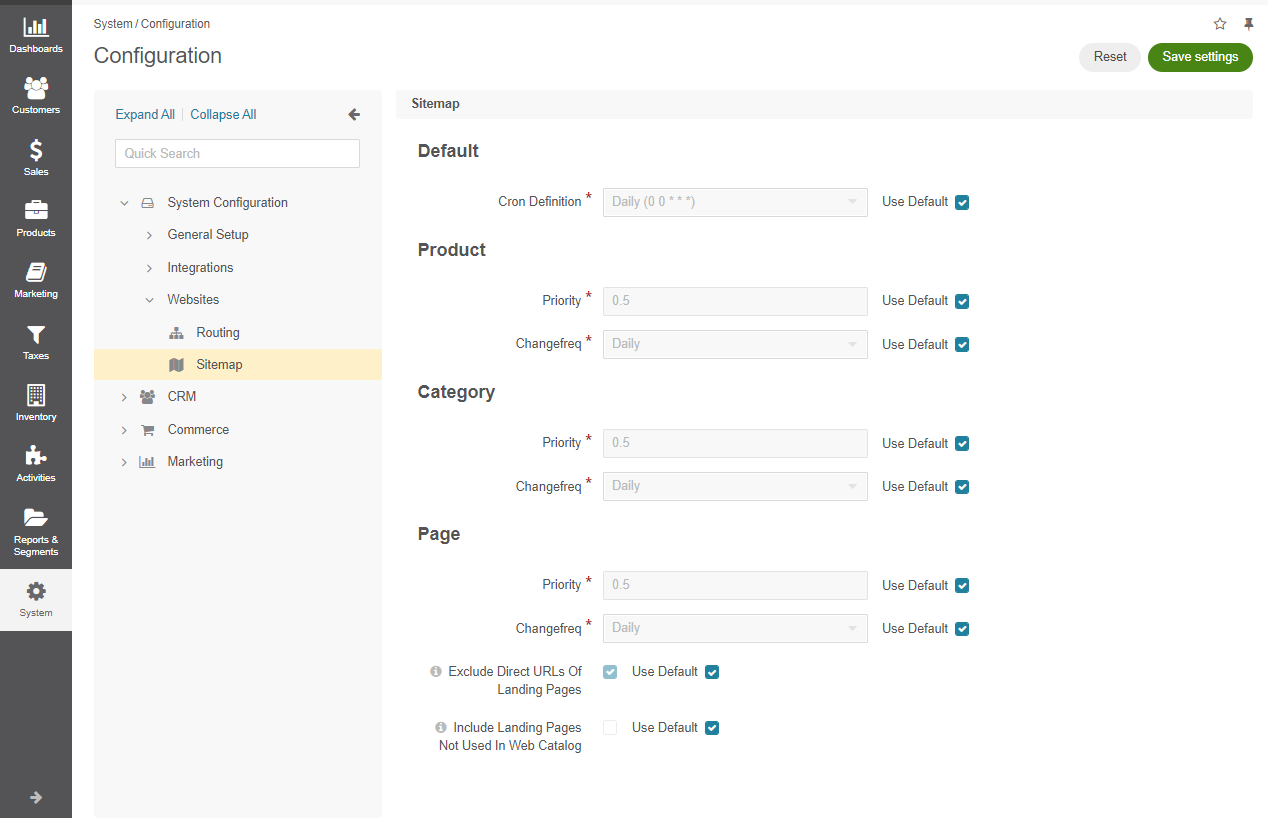
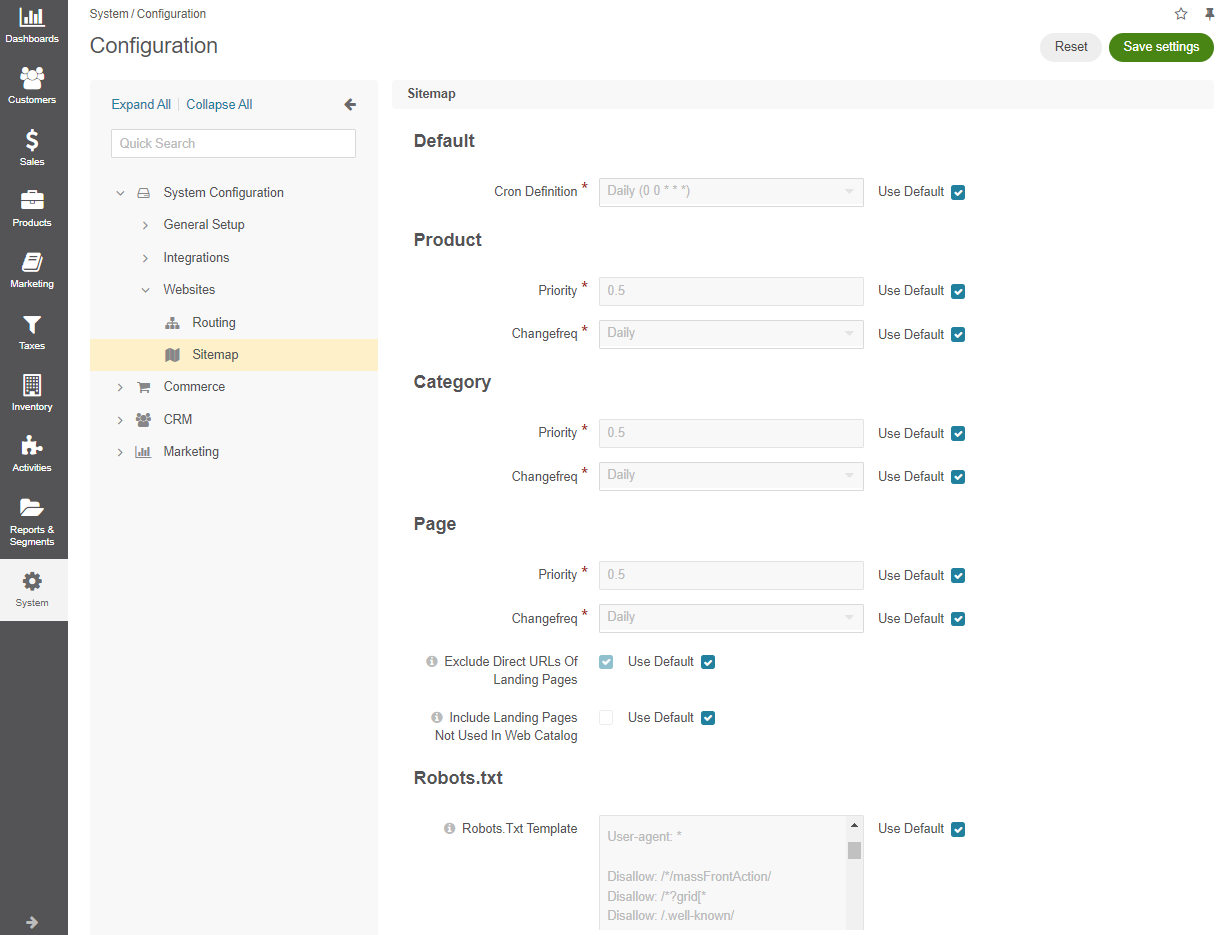
BB-22555: Robots.txt Configuration (#38851)
* BB-23715: Update robots.txt.dist files with default content (#37746)

* BB-23713: Add system configuration option
- added system configuration "Robots.txt Template";
- added RobotsTxtTemplateManager to simplify work with robots.txt.dist template;
- added RobotsTxtTemplateSystemConfigFormOptionsListener to set default value for configuration option "oro_seo.sitemap_robots_txt_template";
- added ScheduleSitemapGenerationOnRobotsTxtTemplateChangeListener to schedules generation of sitemap files if Robots.txt Template configuration option value was changed;
- used RobotsTxtTemplateManager in CopyRobotsTxtTemplateListener

* BB-23713: Add system configuration option

* BB-23714: Use the robots.txt template from system config
- renamed RobotsTxtTemplateManager to RobotsTxtDistTemplateManager;
- added RobotsTxtTemplateManager to provide robots.txt template from oro_seo.sitemap_robots_txt_template system configuration option of from RobotsTxtDistTemplateManager;
- used RobotsTxtDistTemplateManager in the RobotsTxtTemplateSystemConfigFormOptionsListener

* BB-23715: Update robots.txt.dist files with default content

* DOC-2184: Document the Robots.txt config option

* BB-23844: Behat tests (#37779)

- added openTheRobotsTxtUrl step for SEOBundle behat context
- added ability to assert multiline text on page
- added behat tests
- updated CHANGELOG.md
- added gridfs-skip behat tag
- moved gridfs-skip tagged behats to weekly

diff --git a/user/back-office/system/user-management/organizations/org-configuration/general-setup-org/organization-sitemap.rst b/user/back-office/system/user-management/organizations/org-configuration/general-setup-org/organization-sitemap.rst
@@ -1,0 +1,23 @@
+.. _organization-config-website-sitemap:
+
+Configure Website Sitemap Settings per Organization
+===================================================
+
+You can control the way sitemap is generated for specific organization in OroCommerce:
+
+1. Navigate to **System > Configuration > User Management > Organizations** in the main menu.
+
+2. For the necessary organization, click the |IcMore| **More Options** menu at the end of the row, and then click the |IcConfig| **Configure** icon to start editing the configuration.
+
+3. Select **System Configuration > Websites > Sitemap** in the menu to the left.
+
+   .. note:: For faster navigation between the configuration menu sections, use :ref:`Quick Search <user-guide--system-configuration--quick-search>`.
+
+4. Under **Robots.txt**, a user can modify **Robots.Txt Template**, granting or restricting permission for site crawlers to navigate through the specified URLs within your website domain. Initially, the system obtains the default values from the *config/robots.txt.dist* or *robots.%domain.name%.txt* files automatically. Once a user modifies the values in the **Robots.Txt Template** configuration, the system starts adhering to these adjusted values only, subsequently updating the *robots.txt* and *sitemap* files accordingly.
+
+   .. image:: /user/img/system/user_management/org_configuration/websites/sitemap_org.png
+
+5. Click **Save**.
+
+.. include:: /include/include-images.rst
+   :start-after: begin

diff --git a/user/back-office/system/user-management/organizations/org-configuration/general-setup-org/index.rst b/user/back-office/system/user-management/organizations/org-configuration/general-setup-org/index.rst
@@ -14,6 +14,7 @@ Learn how to configure localization options, currency and tracking, as well and 
   * :ref:`Currency <admin-configuration-currency-org>`
   * :ref:`Upload Settings <configuration-guide--system-configuration--general-setup-sysconfig--upload-settings-organization>`
   * :ref:`Website Routing Settings <organization-config-website-routing>`
+  * :ref:`Website Sitemap Settings <organization-config-website-sitemap>`
   * :ref:`Google Settings <organization-google-settings>`
   * :ref:`Microsoft Settings <organization-configuration-microsoft>`
 
@@ -27,4 +28,5 @@ Learn how to configure localization options, currency and tracking, as well and 
    Currency <organization-currency>
    Upload Settings <organization-upload-settings>
    Routing Settings <organization-routing>
+   Sitemap Settings <organization-sitemap>
    Integrations <integrations/index>

diff --git a/user/back-office/system/websites/web-configuration/general-sys-config/websites/website-sitemap.rst b/user/back-office/system/websites/web-configuration/general-sys-config/websites/website-sitemap.rst
@@ -36,8 +36,9 @@ Possible combinations
 .. image:: /user/img/system/config_system/sitemap-config-options.png
    :alt: Table that explains what landing pages are included and excluded into the sitemap file depending on the selected config options
 
+6. Under **Robots.txt**, a user can modify **Robots.Txt Template**, granting or restricting permission for site crawlers to navigate through the specified URLs within your website domain. Initially, the system obtains the default values from the *config/robots.txt.dist* or *robots.%domain.name%.txt* files automatically. Once a user modifies the values in the **Robots.Txt Template** configuration, the system starts adhering to these adjusted values only, subsequently updating the *robots.txt* and *sitemap* files accordingly.
 
-6. Click **Save**.
+7. Click **Save**.
 
 
 .. finish

diff --git a/user/back-office/system/configuration/system/websites/global-sitemap.rst b/user/back-office/system/configuration/system/websites/global-sitemap.rst
@@ -33,6 +33,7 @@ Possible combinations
 .. image:: /user/img/system/config_system/sitemap-config-options.png
    :alt: Table that explains what landing pages are included and excluded into the sitemap file depending on the selected config options
 
+5. Under **Robots.txt**, a user can modify **Robots.Txt Template**, granting or restricting permission for site crawlers to navigate through the specified URLs within your website domain. Initially, the system obtains the default values from the *config/robots.txt.dist* or *robots.%domain.name%.txt* files automatically. Once a user modifies the values in the **Robots.Txt Template** configuration, the system starts adhering to these adjusted values only, subsequently updating the *robots.txt* and *sitemap* files accordingly.
 
-5. Click **Save**.
+6. Click **Save**.
 
